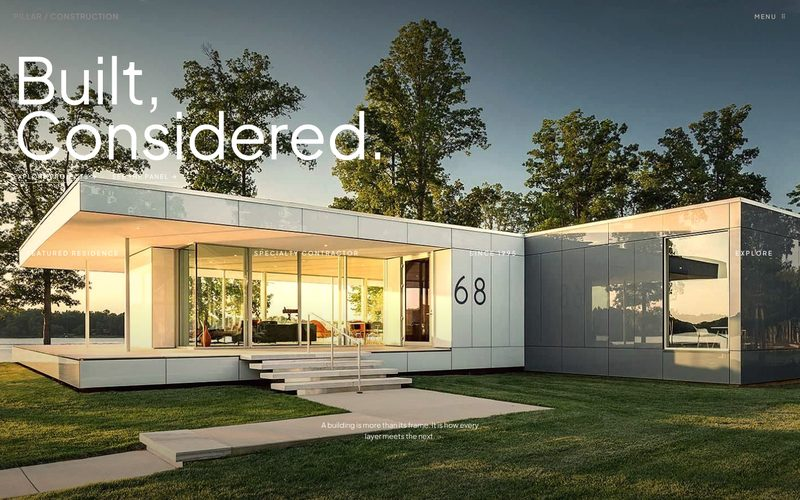
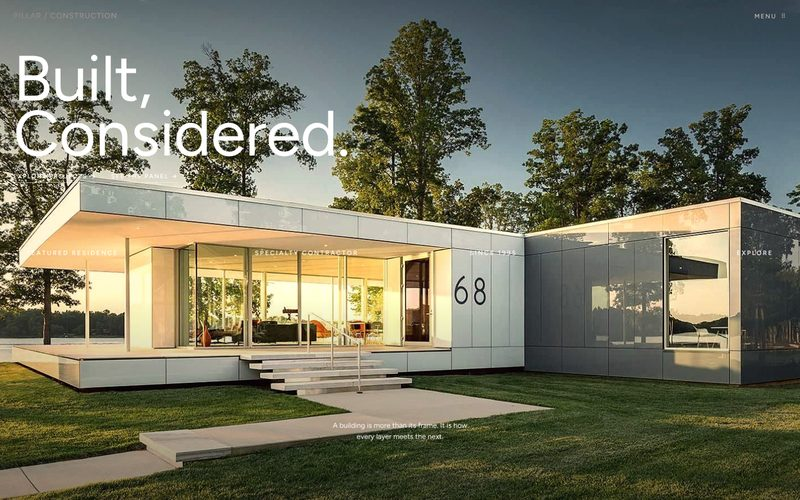
Option 01: set everything in Figtree
Claude-Session: https://claude.ai/code/session_019PWCajMM1o9e1Z4tehWbBf

diff --git a/01-anatomy.html b/01-anatomy.html
@@ -5,13 +5,13 @@
 <meta name="viewport" content="width=device-width,initial-scale=1,viewport-fit=cover">
 <title>Pillar Anatomy</title>
 <link rel="preconnect" href="https://fonts.googleapis.com"><link rel="preconnect" href="https://fonts.gstatic.com" crossorigin>
-<link rel="stylesheet" href="https://fonts.googleapis.com/css2?family=Plus+Jakarta+Sans:ital,wght@0,300..700;1,300..500&display=swap">
+<link rel="stylesheet" href="https://fonts.googleapis.com/css2?family=Figtree:ital,wght@0,300..700;1,300..500&display=swap">
 <link rel="stylesheet" href="assets/core.css">
 <style>
 /* Layout: warm sand pages interrupted by a deep-navy pinned "anatomy" chamber; rounded image slabs. */
 :root{
   --sand:#efe8db; --sand-2:#e6dccb; --ink:#2a241f; --mute:#7b7064; --navy:#1d2f7c; --navy-2:#13205a; --paper:#fffdf8; --line:rgba(42,36,31,.14);
-  --disp:"Plus Jakarta Sans","Helvetica Neue",Arial,sans-serif; --sans:"Plus Jakarta Sans","Helvetica Neue",Arial,sans-serif;
+  --disp:"Figtree","Helvetica Neue",Arial,sans-serif; --sans:"Figtree","Helvetica Neue",Arial,sans-serif;
   --gut:max(24px,env(safe-area-inset-left,0px)); --r:22px;
   --px-lb-bg:#14182a; --px-lb-font:var(--sans); --px-lb-display:var(--disp); --px-sw-bg:rgba(29,47,124,.85);
 }
@@ -19,8 +19,8 @@ body{background:var(--sand);color:var(--ink);font:400 16px/1.5 var(--sans)}
 .wrap{padding-left:var(--gut);padding-right:var(--gut)}
 h1,h2,h3{margin:0;font-weight:400;text-wrap:balance}
 .lab{font:500 10px/1 var(--sans);letter-spacing:.2em;text-transform:uppercase}
-/* one sans family throughout: Plus Jakarta Sans, light and tightly set for display */
-.menu a,.hero h1,.cloud h2,.cloud .cap b,.slab .cap h3,.wm .over h3,.ana .head h2,.cards-h h2,.pair .tx .n,.idx h2,.end h2{letter-spacing:-.03em;font-weight:400}
+/* one sans family throughout: Figtree, light and tightly set for display */
+.menu a,.hero h1,.cloud h2,.cloud .cap b,.slab .cap h3,.wm .over h3,.ana .head h2,.cards-h h2,.pair .tx .n,.idx h2,.end h2{letter-spacing:-.035em;font-weight:400}
 .cloud h2 em{font-style:normal}
 
 .hd{position:fixed;inset:0 0 auto;z-index:50;display:flex;justify-content:space-between;align-items:center;padding-top:22px;padding-bottom:22px;color:#fff;mix-blend-mode:difference}
